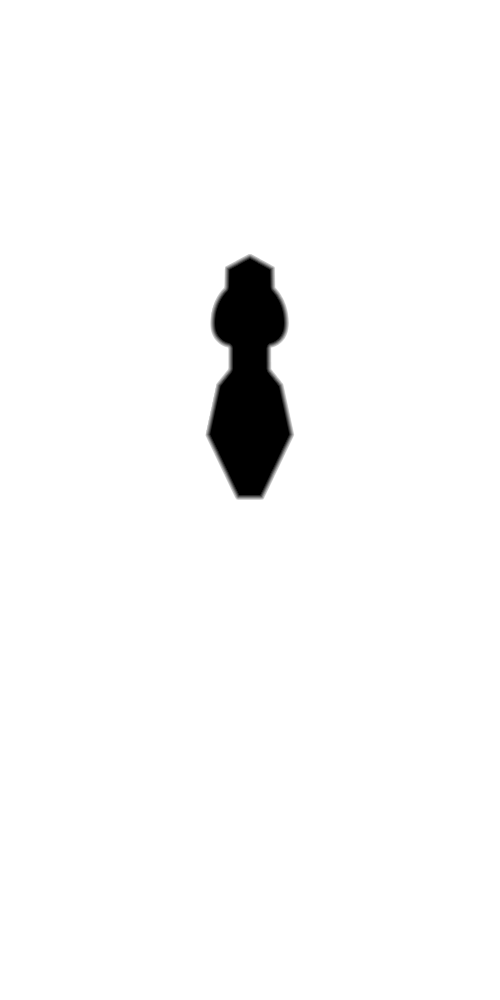
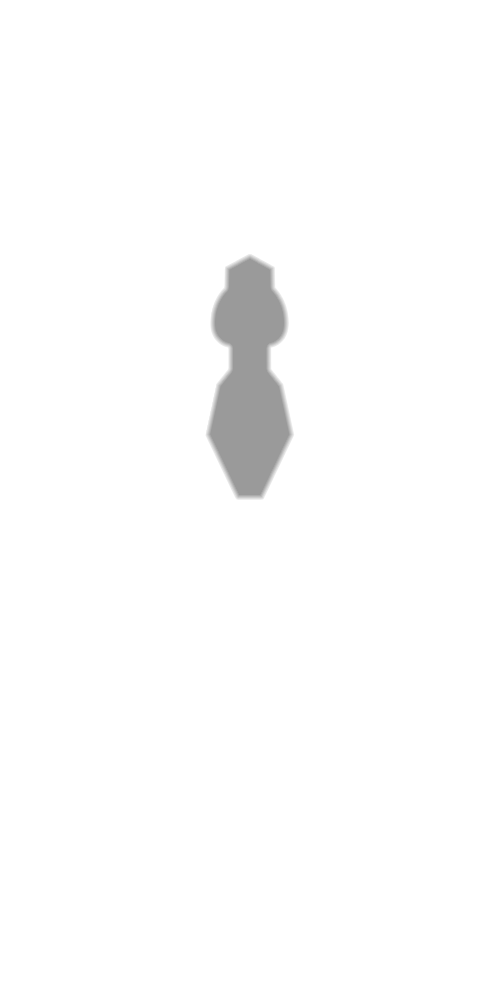
生化人体

Changed region(s): [[0.42, 0.248, 0.6, 0.527]]

diff --git a/packages/mod/src/components/衣服和装饰/动物身体/生化人体.js b/packages/mod/src/components/衣服和装饰/动物身体/生化人体.js
@@ -7,19 +7,28 @@ const asset = {
     Random: false,
     Top: 0,
     Left: 0,
-    Priority: 21,
+    Priority: 9,
     Expose: ["ItemVulva", "ItemVulvaPiercings", "ItemButt"],
     DefaultColor: ["Default"],
     PoseMapping: {
         Hogtied: PoseType.HIDE,
         AllFours: PoseType.HIDE,
     },
+    ParentGroup: null,
+    AllowColorize: false,
     Layer: [
         {
+            Name: "骨架",
+        },
+        {
+            Name: "阴道",
+        },
+        {
             Name: "擦除身体",
-            AllowColorize: false,
-            ParentGroup: null,
             BlendingMode: "destination-out",
+        },
+        {
+            Name: "网格",
         },
     ],
 };
@@ -65,5 +74,5 @@ export default function () {
         [`gl.bindBuffer(gl.ARRAY_BUFFER, program.position_buffer);`]: `${func}(gl,blendingMode); gl.bindBuffer(gl.ARRAY_BUFFER, program.position_buffer);`,
     });
 
-    // AssetManager.addAsset("Bra", asset);
+    AssetManager.addAsset("Bra", asset);
 }

diff --git a/packages/mod/src/components/衣服和装饰/动物身体/人偶2.js b/packages/mod/src/components/衣服和装饰/动物身体/人偶2.js
@@ -35,5 +35,5 @@ const translations = {
 };
 
 export default function () {
-    AssetManager.addAsset("Cloth", asset, undefined, translations);
+    // AssetManager.addAsset("Cloth", asset, undefined, translations);
 }
